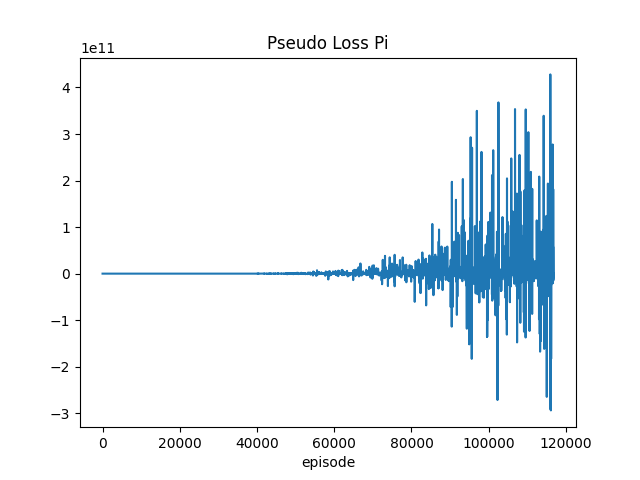
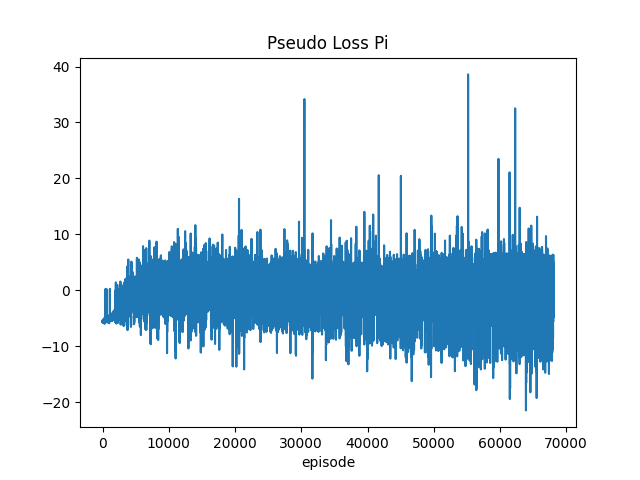
Q actor critic

diff --git a/test_V_actor_critic/Class.py b/test_V_actor_critic/Class.py
@@ -17,6 +17,7 @@ class Frame(nn.Module):
     def __init__(self,N):
         super().__init__()
         self.N = N
+        self.Na = 5
     def f(self,x):
         if x =="NOP":
             out = 1
@@ -52,7 +53,7 @@ class Policy(Frame):
         self.N = N
         self.linear1 = nn.Linear(self.N,128)
         self.linear2 = nn.Linear(128,64)
-        self.linear3 = nn.Linear(64, self.N +3) # -1 pour ne pas modifier la dernière ligne
+        self.linearTrois = nn.Linear(64, self.N +self.Na) # -1 pour ne pas modifier la dernière ligne
         self.actv = nn.ReLU()
     def forward(self,x:str, logit = False):
         """
@@ -63,10 +64,10 @@ class Policy(Frame):
         #out = self.actv(out)
         out = self.linear2(out)
         out = self.actv(out)
-        out = self.linear3(out)
-        dist1 = distributions.Categorical(F.softmax(out[:-3], dim=0))
+        out = self.linearTrois(out)
+        dist1 = distributions.Categorical(F.softmax(out[:-self.Na], dim=0))
         line2change = dist1.sample([1]).squeeze()
-        dist2 = distributions.Categorical(F.softmax(out[-3:], dim=0))
+        dist2 = distributions.Categorical(F.softmax(out[-self.Na:], dim=0))
         change = dist2.sample([1]).squeeze()
         action = {"line":line2change, "change":change}
         if logit:
@@ -74,14 +75,15 @@ class Policy(Frame):
         else:
             out = action
         return out
-class Epsilon_greedy_policy:
+class Epsilon_greedy_policy(Frame):
     def __init__(self,N,epsilon,policy):
+        super().__init__(N)
         self.N = N
         self.epsilon = epsilon
         self.policy = policy
     def __call__(self,x:str, logit = False):
         if torch.bernoulli(torch.Tensor([self.epsilon])):
-            out = {"line":torch.randint(0,self.N,(1,))[0],"change":torch.randint(0,3,(1,))[0]}
+            out = {"line":torch.randint(0,self.N,(1,))[0],"change":torch.randint(0,self.Na,(1,))[0]}
         else:
             out = self.policy(x)
         return out
@@ -92,13 +94,13 @@ class ValueFunction(Frame):
         self.actv = nn.ReLU()
         self.linear1 = nn.Linear(self.N,128)
         self.linear2 = nn.Linear(128,64)
-        self.linear3 = nn.Linear(64, 16)
+        self.linearTrois = nn.Linear(64, 16)
         self.linear4 = nn.Linear(16,1)
     def forward(self,x:str):
         out = self.linear1(self.program2padding(x))
         out = self.linear2(out)
         out = self.actv(out)
-        out = self.linear3(out)
+        out = self.linearTrois(out)
         out = self.actv(out)
         out = self.linear4(out)
         return out
@@ -115,21 +117,36 @@ class CodeModification(Frame):
         modified_program = self.filter(program)
         #print("change", change)
         #print("program", modified_program)
-        if change==0 and line2change < len(modified_program)-1:
-            #print("modif")
-            #permutation
-            if modified_program[line2change]=="NOP":
-                modified_program[line2change] = 'LHLD'
-            elif modified_program[line2change]=='LHLD':
-                modified_program[line2change] = 'SHLD'
-            elif modified_program[line2change] == 'SHLD':
-                modified_program[line2change] = 'NOP'
-        if change==1:
+        #if change==0 and line2change < len(modified_program)-1:
+        #    #print("modif")
+        #    #permutation
+        #    if modified_program[line2change]=="NOP":
+        #        modified_program[line2change] = 'LHLD'
+        #    elif modified_program[line2change]=='LHLD':
+        #        modified_program[line2change] = 'SHLD'
+        #    elif modified_program[line2change] == 'SHLD':
+        #        modified_program[line2change] = 'NOP'
+        #if change==1:
+        #    if len(modified_program)>0 and line2change<len(modified_program)-1:
+        #        #print("sup")
+        #        #delete the instruction
+        #        modified_program[line2change:] = modified_program[line2change+1:]
+        #if change==2:
+        #    #print("add")
+        #    #if len(modified_program)<self.N:
+        #    if  len(modified_program)<self.N:
+        #        #add an instruction
+        #        istr = np.random.randint(0,len(self.instructions), (1,)).item()
+        #        modified_program[-1] = self.instructions[istr]
+        #        modified_program.append("HLT")
+
+
+        if change==0:
             if len(modified_program)>0 and line2change<len(modified_program)-1:
                 #print("sup")
                 #delete the instruction
                 modified_program[line2change:] = modified_program[line2change+1:]
-        if change==2:
+        if change==1:
             #print("add")
             #if len(modified_program)<self.N:
             if  len(modified_program)<self.N:
@@ -137,8 +154,15 @@ class CodeModification(Frame):
                 istr = np.random.randint(0,len(self.instructions), (1,)).item()
                 modified_program[-1] = self.instructions[istr]
                 modified_program.append("HLT")
-
-        #print("program", modified_program)
+        if change==2 and line2change < len(modified_program)-1:
+            #print("modif")
+            modified_program[line2change] = 'LHLD'
+        if change==3 and line2change < len(modified_program)-1:
+            #print("modif")
+            modified_program[line2change] = 'SHLD'
+        if change==4 and line2change < len(modified_program)-1:
+            #print("modif")
+            modified_program[line2change] = 'NOP'
         return self.reverse_filter(modified_program)
 
 class Env(CodeModification):
@@ -146,7 +170,7 @@ class Env(CodeModification):
         super().__init__(N)
         self.N = N
         self.goal_interference = goal_interference
-        self.actionRep = torch.eye((self.N)* 3).reshape(self.N,3,(self.N)* 3)
+        self.actionRep = torch.eye((self.N)* self.Na).reshape(self.N,self.Na,(self.N)* self.Na)
     def __call__(self, action:torch.Tensor, program:str)->dict:
         modified_program = super().__call__(action, program)
         modified_program_signature = execute(compile_program(modified_program))
@@ -156,7 +180,7 @@ class Env(CodeModification):
         out = 0
         for k in modified_program_signature.keys():
             if k=="latence":
-                w = 1e4
+                w = 1e3
             elif k=="full time":
                 w = 1e3
             else:
@@ -164,11 +188,11 @@ class Env(CodeModification):
             out += w * (modified_program_signature[k] - self.goal_interference[k])**2
         return out
     def reward(self,modified_program_signature):
-        out = -(self.distance(modified_program_signature)>10)
+        out = -(self.distance(modified_program_signature)>5)
         return out
     def end(self,program):
         signature = execute(compile_program(program))
-        return self.distance(signature)>10
+        return self.distance(signature)<5
 
 class OnlineActorCritic(Env):
     #Inconvienient pour le deep learning car pas de batch pour update les reseaux de neurones
@@ -189,11 +213,11 @@ class OnlineActorCritic(Env):
         self.gamma = gamma
         self.loadpath = "loads"
         self.optpath = "opt"
-        self.max_norm = 1.0
+        self.max_norm = .1
     def UpdatePi(self,advantage, state,action):
         _, logits_a = self.policy(state, logit = True)
 
-        logit_flat = torch.mul(logits_a[:-3].unsqueeze(1),logits_a[-3:].unsqueeze(0)).flatten()
+        logit_flat = torch.mul(logits_a[:-self.Na].unsqueeze(1),logits_a[-self.Na:].unsqueeze(0)).flatten()
         logpi = F.cross_entropy(logit_flat,self.actionRep[action["line"],action["change"]],weight = None, reduction = 'none')        
         negativ_pseudo_loss = torch.mul(logpi,advantage)
         self.optimizerPi.zero_grad()
@@ -225,7 +249,7 @@ class OnlineActorCritic(Env):
                 program = programInit
                 #signature = execute(compile_program(program))
                 #while self.distance(signature)>2 and k<200:
-                while self.end(program) and k<400:
+                while not self.end(program) and k<400:
                     action = self.epsilon_greedy_policy(program)
                     transition = super().__call__(action, program)
                     targets = transition["reward"] + self.gamma*self.value_function(transition["modified_program"])

diff --git a/test_V_actor_critic/main.py b/test_V_actor_critic/main.py
@@ -2,7 +2,7 @@ import numpy as np
 import matplotlib.pyplot as plt
 import sys
 sys.path.append("../")
-from compiler import compile_program
+from Simulator8085simCli.compiler import compile_program
 from Simulator8085simCli.execute_ import execute
 from tqdm import tqdm
 import re
@@ -35,8 +35,8 @@ if __name__=="__main__":
     print("Modified program signature \n", Dict["modified_program_signature"])
     print("reward \n", Dict["reward"])
 
-    optimzerV = optim.Adam(V.parameters(),lr = 1e-4)
-    optimizerPi = optim.Adam(pi.parameters(), lr = 1e-4)
+    optimzerV = optim.Adam(V.parameters(),lr = 1e-5)
+    optimizerPi = optim.Adam(pi.parameters(), lr = 1e-5)
     
     start = 0
     if start>0:
